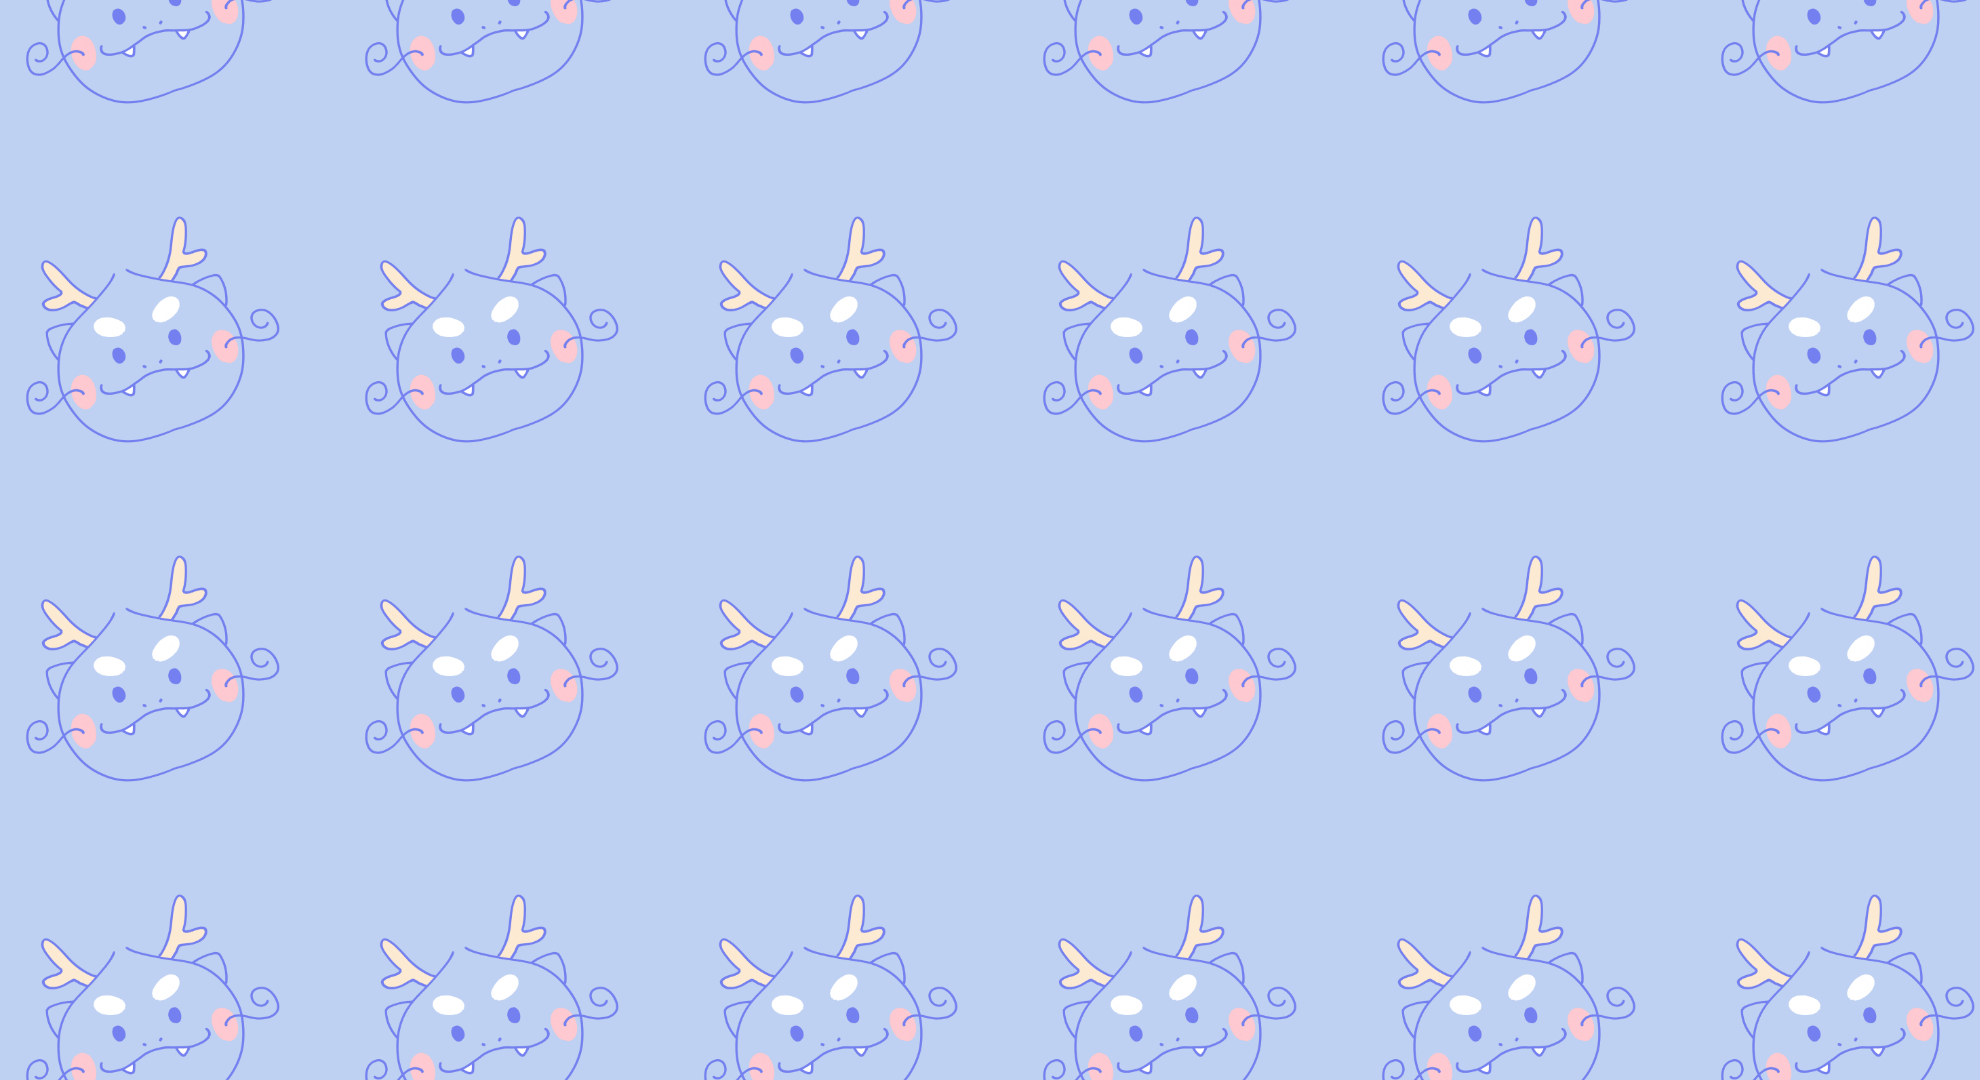
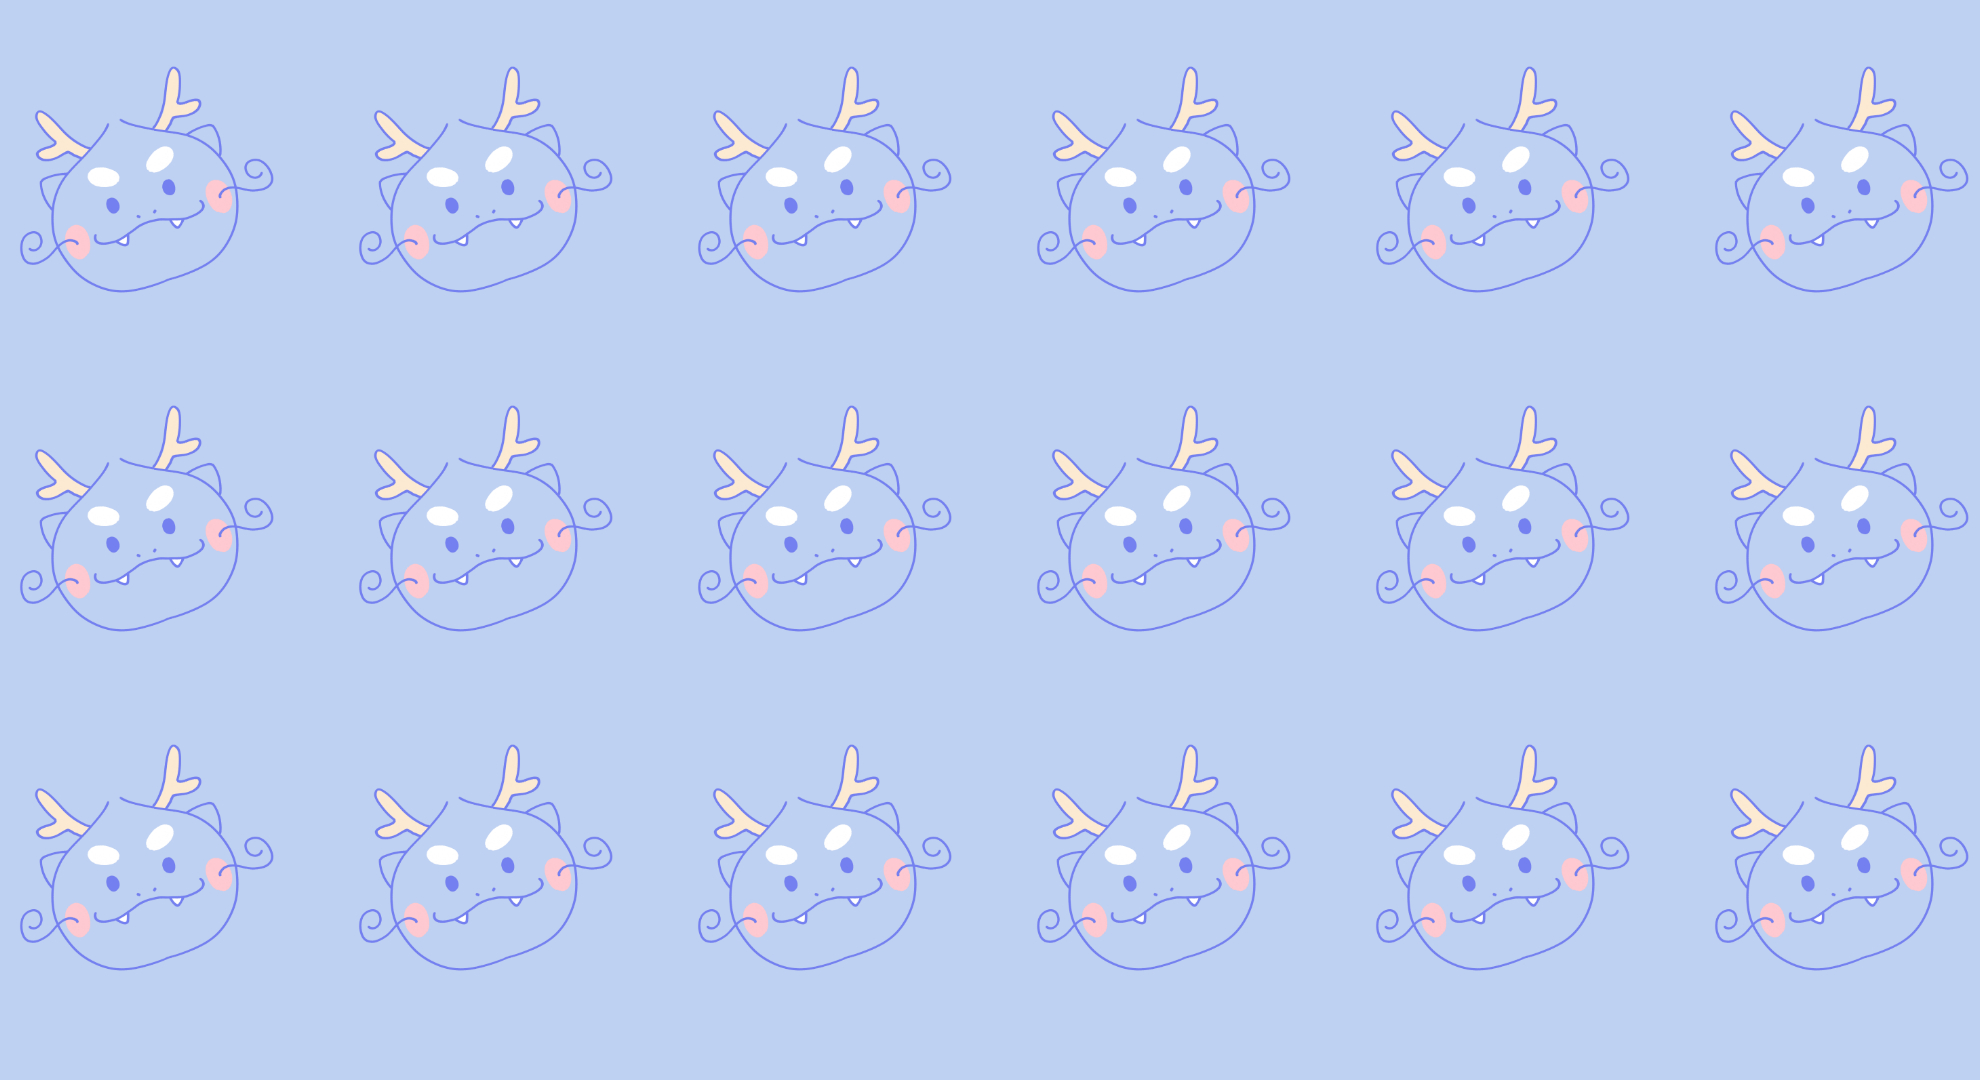
모든 페이지에 배경 이미지를 추가했습니다.

diff --git a/mbti_putiez/src/main/resources/templates/privacy/privacy.html b/mbti_putiez/src/main/resources/templates/privacy/privacy.html
@@ -9,7 +9,10 @@
             font-family: Arial, sans-serif;
             margin: 0;
             padding: 0;
-            background-color: #f4f4f4;
+            background-image: url('http://localhost:20001/assets/background.jpg');
+            background-size: auto;
+            background-repeat: repeat;
+            background-position: center;
             /*text-align: center;*/
         }
         .container {

diff --git a/mbti_putiez/src/main/resources/templates/error.html b/mbti_putiez/src/main/resources/templates/error.html
@@ -8,7 +8,10 @@
         body {
             font-family: Arial, sans-serif;
             text-align: center;
-            background-color: #f8f9fa;
+            background-image: url('http://localhost:20001/assets/background.jpg');
+            background-size: auto;
+            background-repeat: repeat;
+            background-position: center;
         }
         .container {
             max-width: 600px;

diff --git a/mbti_putiez/src/main/resources/templates/results/results.html b/mbti_putiez/src/main/resources/templates/results/results.html
@@ -8,7 +8,10 @@
         body {
             font-family: Arial, sans-serif;
             text-align: center;
-            background-color: #f4f4f4;
+            background-image: url('http://localhost:20001/assets/background.jpg');
+            background-size: auto;
+            background-repeat: repeat;
+            background-position: center;
         }
         .container {
             max-width: 800px;

diff --git a/mbti_putiez/src/main/resources/templates/index.html b/mbti_putiez/src/main/resources/templates/index.html
@@ -12,8 +12,8 @@
             margin: 0;
             padding: 0;
             background-image: url('http://localhost:20001/assets/background.jpg');
-            background-size: cover;
-            background-repeat: no-repeat;
+            background-size: auto;
+            background-repeat: repeat;
             background-position: center;
         }
         .container {

diff --git a/mbti_putiez/src/main/resources/templates/questions/questions_ver2.html b/mbti_putiez/src/main/resources/templates/questions/questions_ver2.html
@@ -12,7 +12,10 @@
         font-family: Arial, sans-serif;
         margin: 0;
         padding: 0;
-        background-color: #f4f4f4;
+        background-image: url('http://localhost:20001/assets/background.jpg');
+        background-size: auto;
+        background-repeat: repeat;
+        background-position: center;
         text-align: center;
     }
     .round-button {
